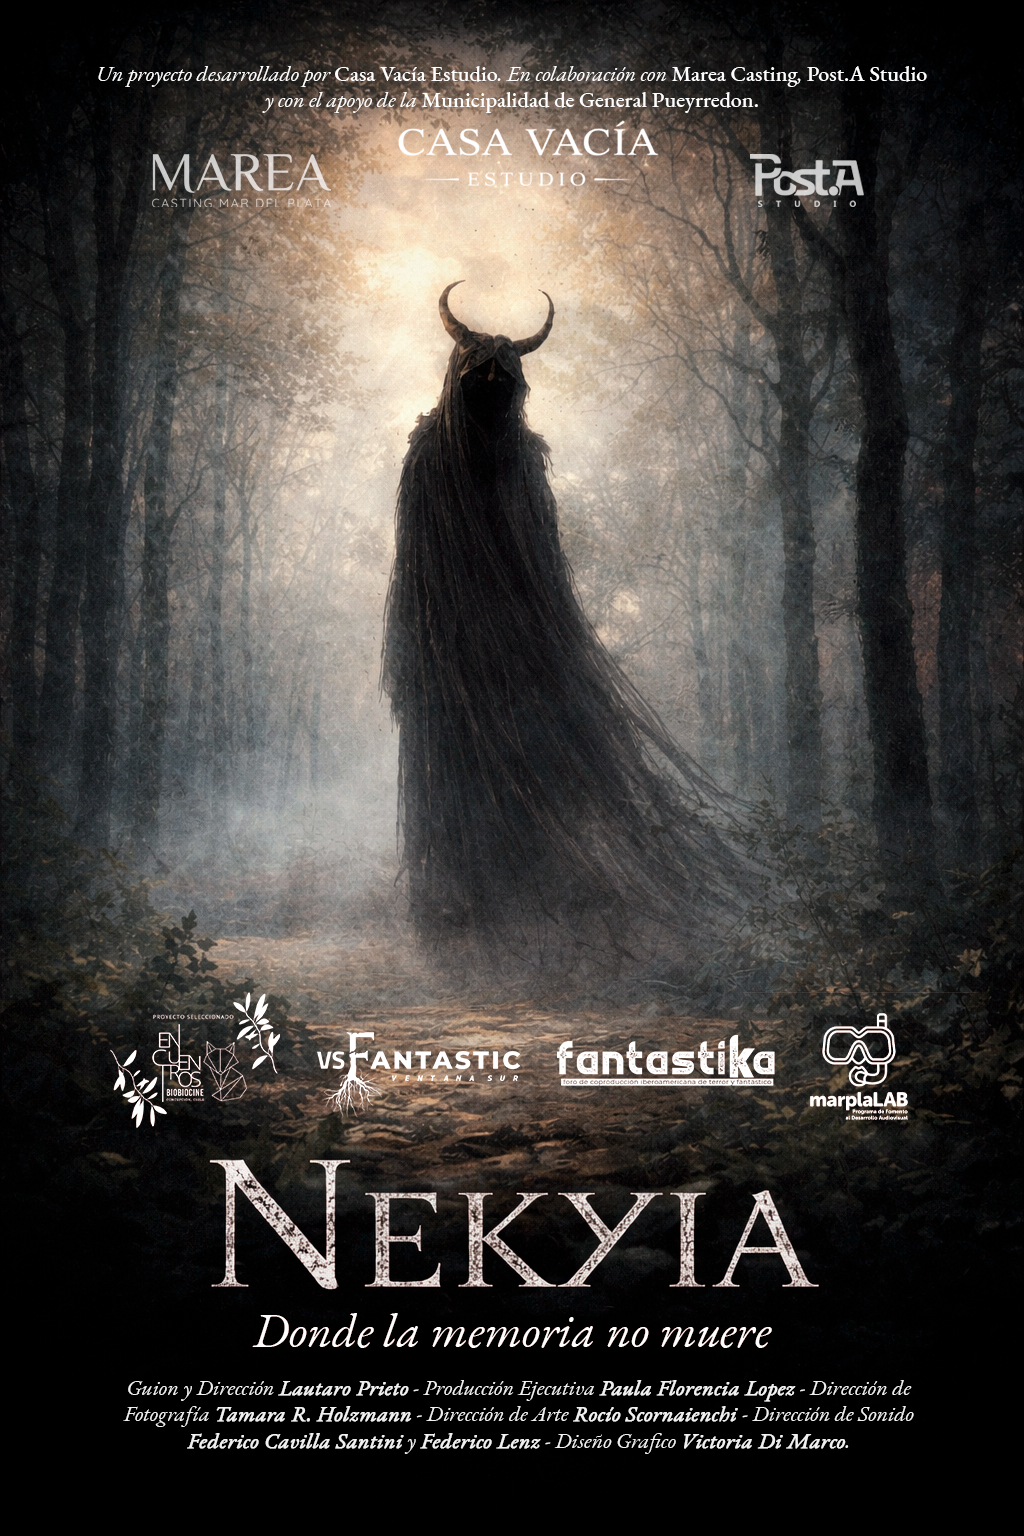
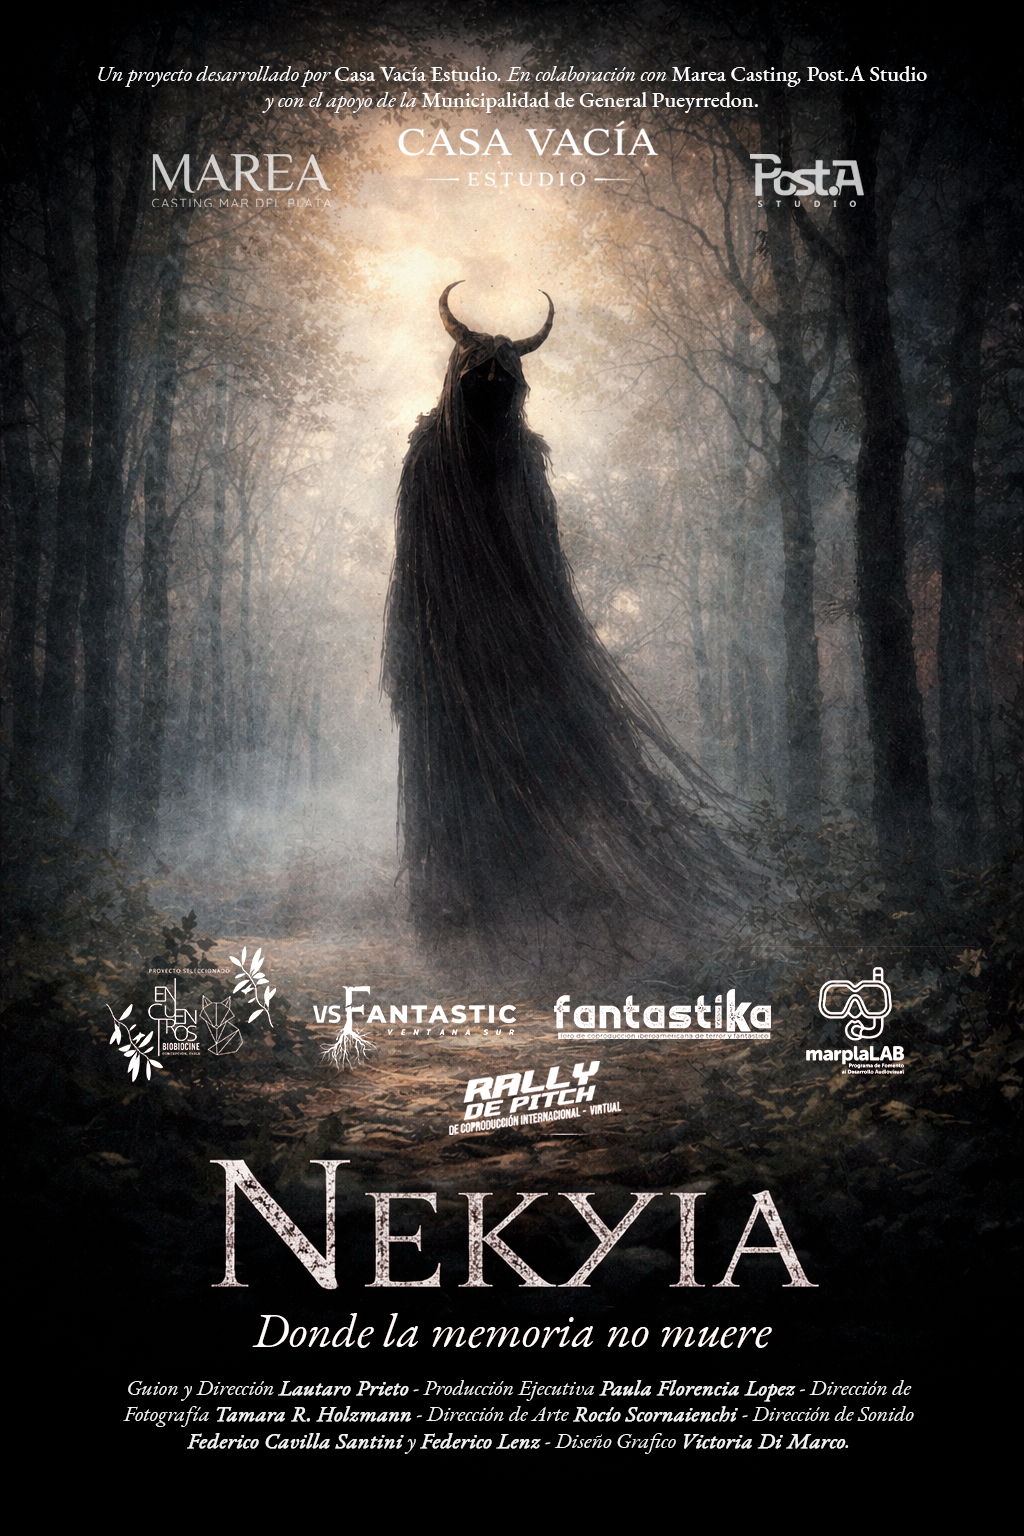
feat nuevo poster festival nekyia

Changed region(s): [[0.3125, 0.625, 0.9062, 0.75], [0.0938, 0.625, 0.2812, 0.75]]

diff --git a/components/festivals-section.tsx b/components/festivals-section.tsx
@@ -6,6 +6,7 @@ export function FestivalsSection() {
     { name: "BioBio", subtitle: "Nekyia", logo: "/festivales/NEKYIA - BioBio.png" },
     { name: "Marpla", subtitle: "Nekyia", logo: "/festivales/Marpla PNG negro.png" },
     { name: "Fantastika", subtitle: "Nekyia", logo: "/festivales/Nekyia - Fantastika.png" },
+    { name: "Rally 2026", subtitle: "Nekyia", logo: "/festivales/rally-2026.png" },
     { name: "Mar del Plata", subtitle: "Lujuria", logo: "/festivales/LUJURIA - Festival Internacional de cine de Mar del Plata - 2022.png" },
     { name: "Rojo Sangre", subtitle: "Lujuria", logo: "/festivales/LUJURIA - Festival Buenos Aires Rojo Sangre.png" },
     { name: "Cinema Diva", subtitle: "Lujuria", logo: "/festivales/LUJURIA - Festival Cinema Diva.png" },
@@ -21,7 +22,7 @@ export function FestivalsSection() {
         </p>
 
         {/* Festival logos as text */}
-        <div className="grid grid-cols-2 gap-8 sm:grid-cols-3 md:grid-cols-4 lg:grid-cols-9">
+        <div className="grid grid-cols-2 gap-8 sm:grid-cols-3 md:grid-cols-4 lg:grid-cols-10">
           {festivals.map((festival) => (
             <div
               key={festival.name}
